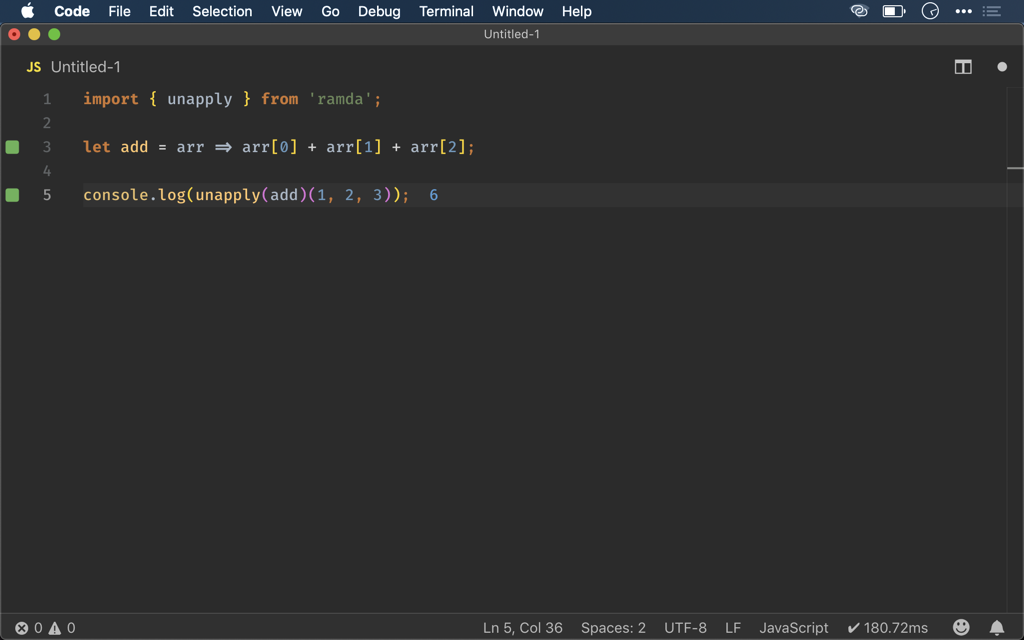
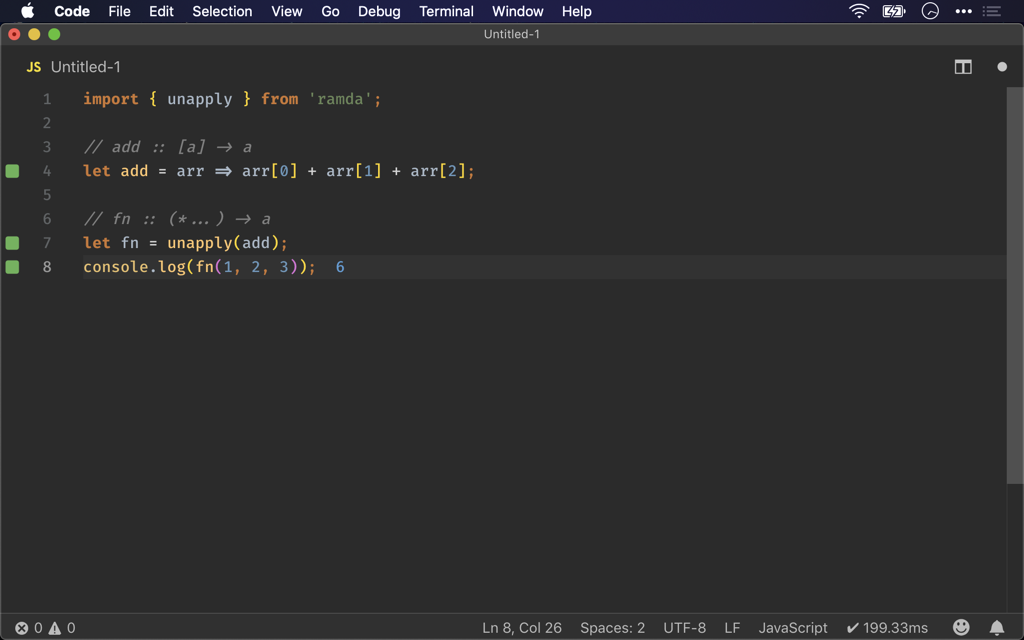
Ramda 之 unapply()

diff --git a/source/_posts/ramda/unapply.md b/source/_posts/ramda/unapply.md
@@ -3,9 +3,9 @@ tags:
   - Ramda
   - Ramda/unapply
 feature: images/feature/ramda.png
-date: 2019-05-10 11:28:26
+date: 2019-05-14 20:28:26
 ---
-將原本 Argument 為 Array 的 Function，透過 Ramda 的 `unapply()` 成為多參數的 Function。
+將原本單一 Argument  Function，透過 Ramda 的 `unapply()` 成為多 Argument  Function。
 
 <!-- more -->
 
@@ -18,9 +18,12 @@ Ramda 0.26.1
 ## Function
 
 ```javascript
+// add :: [a] -> a
 let add = arr => arr[0] + arr[1] + arr[2];
 
-console.log(add([1, 2, 3]));
+// fn :: [a] -> a
+let fn = add;
+console.log(fn([1, 2, 3]));
 ```
 
 `add()` 為普通 function，只有 1 個 array 為 argument。
@@ -32,9 +35,12 @@ console.log(add([1, 2, 3]));
 ```javascript
 import { unapply } from 'ramda';
 
+// add :: [a] -> a
 let add = arr => arr[0] + arr[1] + arr[2];
 
-console.log(unapply(add)(1, 2, 3));
+// fn :: (*...) -> a
+let fn = unapply(add);
+console.log(fn(1, 2, 3));
 ```
 
 若想將原本 `add()` 的 argument 從 1 個 array，變成 3 個 argument，可使用 Ramda 的 `unapply()` 加以轉換。
